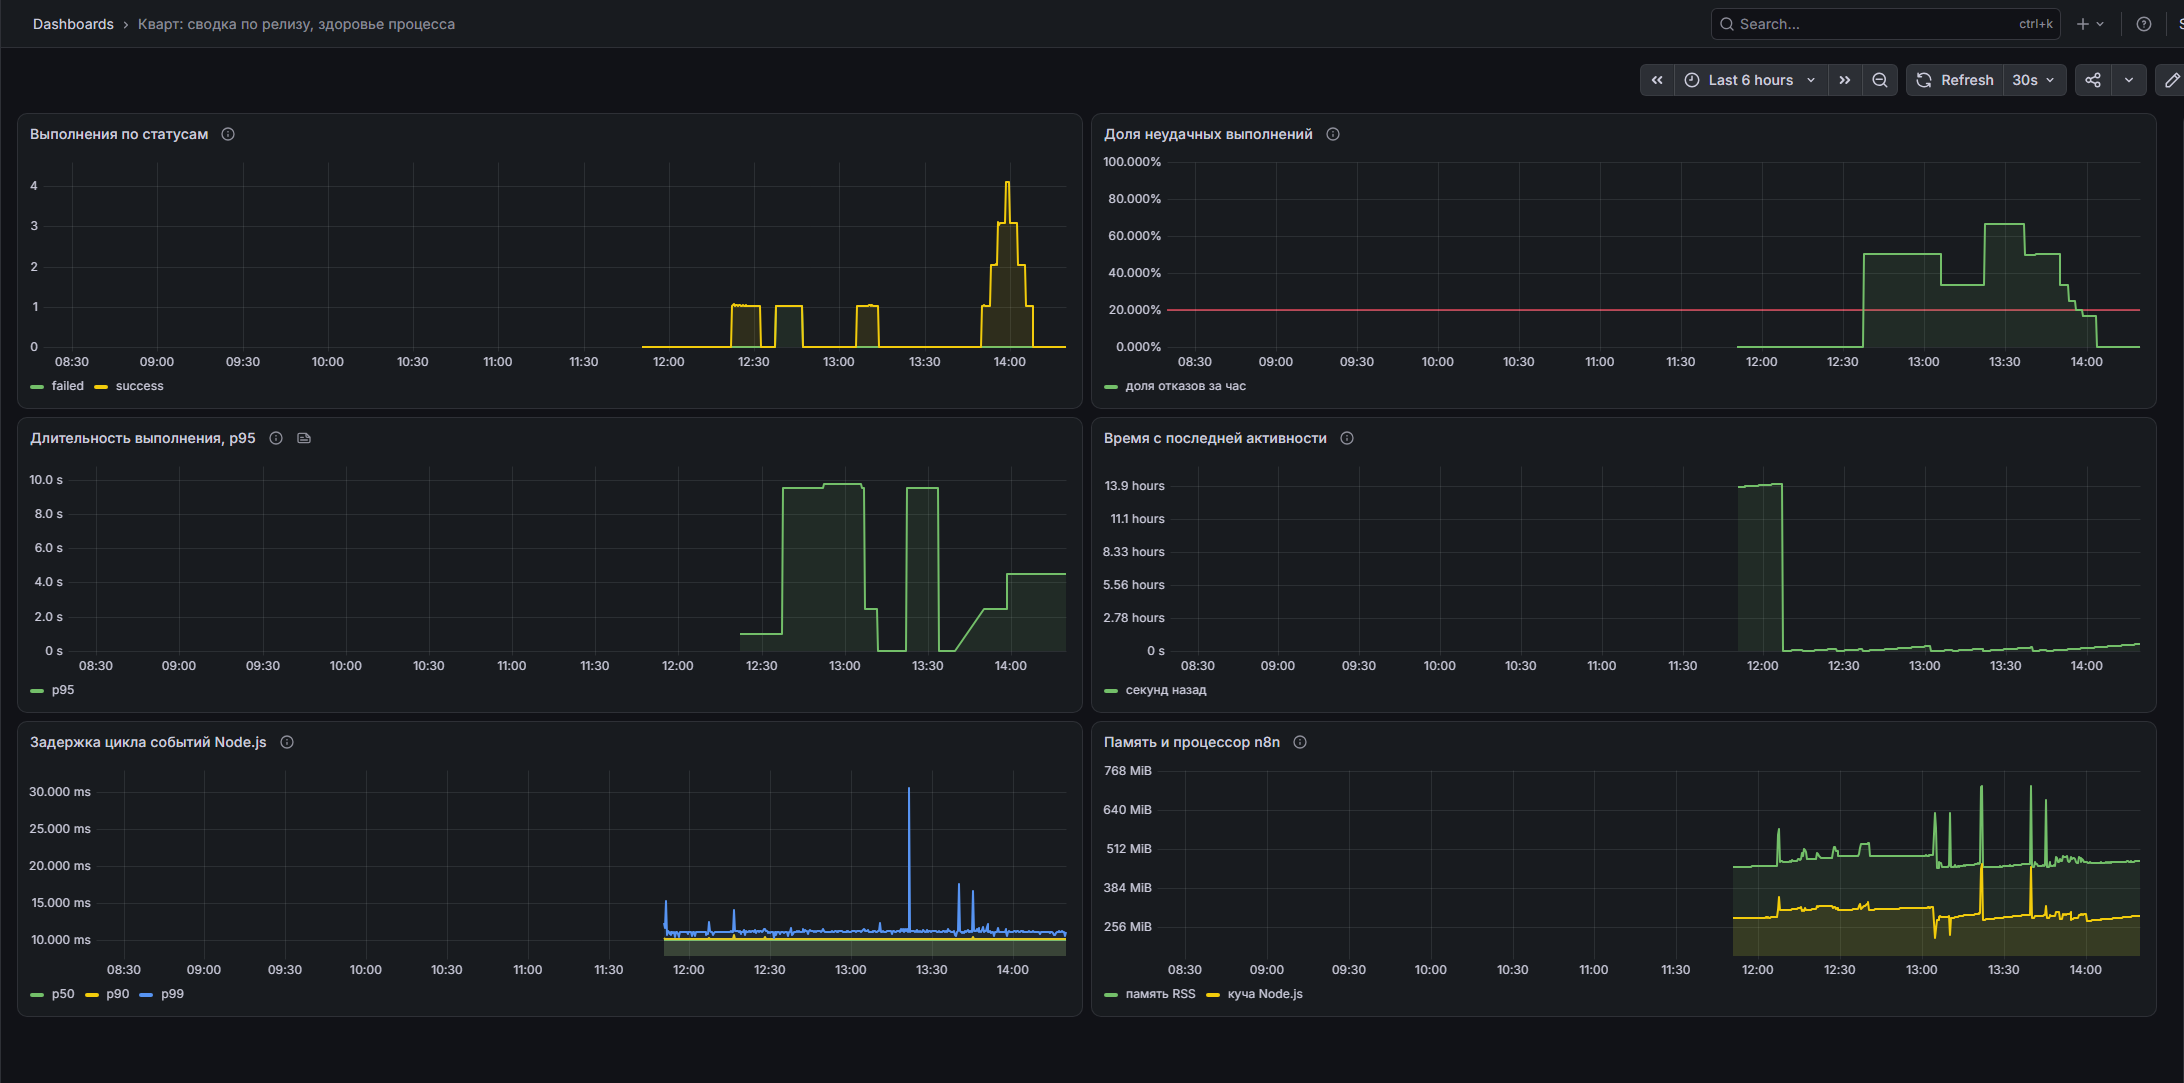
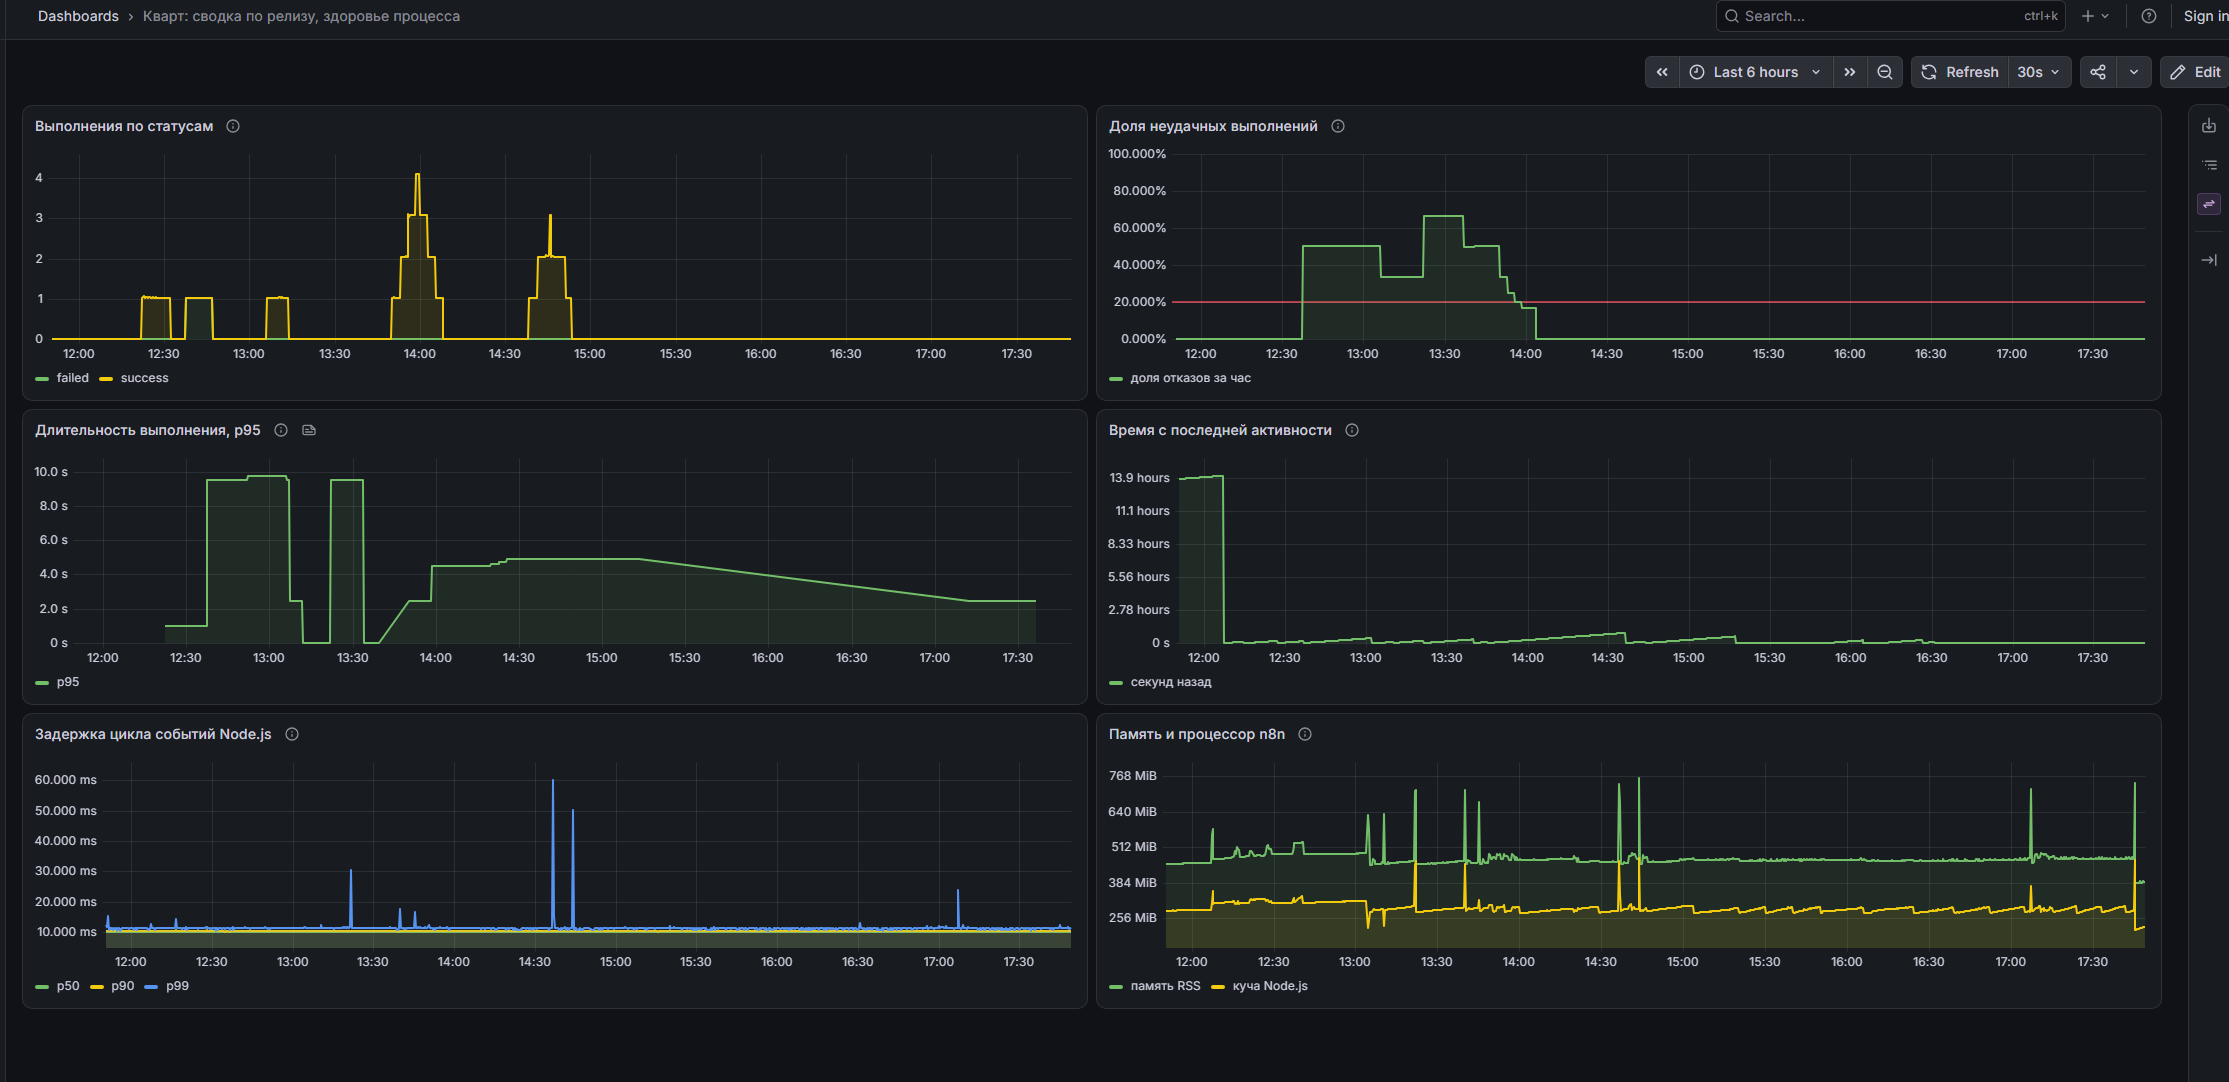
Лаба 8: правила алертов и скриншот дашборда
Три PrometheusRule под событийный триггер: упавший прогон, недоступность
n8n и задержка цикла событий. В комментариях к правилам записано, почему
метрики вида "давно не было успешных прогонов" здесь не годятся и какие
ложные срабатывания приняты сознательно.

diff --git a/lab8-morning-digest/README.md b/lab8-morning-digest/README.md
@@ -624,7 +624,7 @@ spec:
 
 ![Дашборд: все шесть панелей](docs/img/01-dashboard.png)
 
-На снимке видно поведение стенда за рабочий день: всплеск выполнений около 14:00, доля отказов, поднимавшаяся до 65 процентов при отладке агентов и упавшая до нуля после последних исправлений, и ровная задержка цикла событий около 10 миллисекунд с единственным выбросом в 30.
+На снимке видно поведение стенда за рабочий день. Доля отказов поднималась до 65 процентов, пока разбирались агенты, и упала до нуля после последних исправлений. Задержка цикла событий держится около 10 миллисекунд с редкими выбросами до 60, то есть до порога алерта в одну секунду там огромный запас, и порог явно нуждается в калибровке. Память растёт ступенями: каждая ступень это перезапуск n8n после очередного импорта воркфлоу, а не утечка.
 
 <details><summary><b>Примечание: метрика длительности меряет не то, что кажется</b></summary>
 
